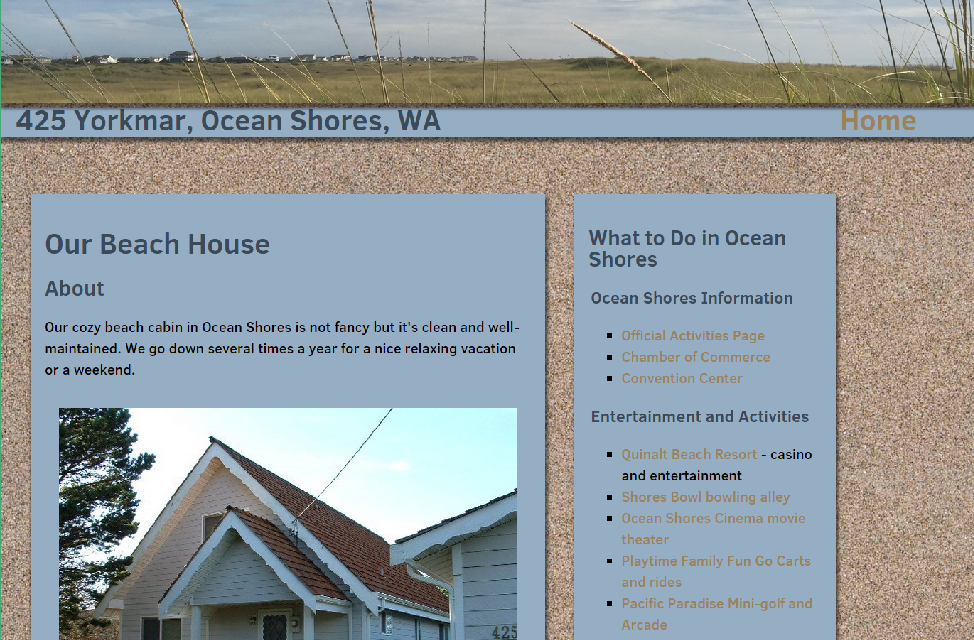
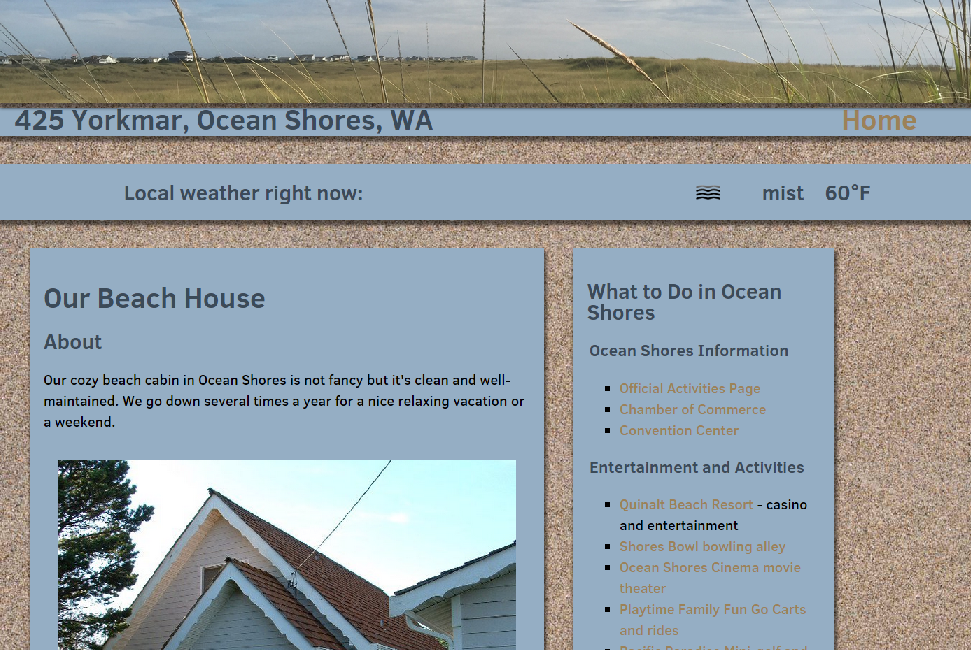
added more books. Added weather to Ocean Shores page

diff --git a/app/hobbies.html b/app/hobbies.html
@@ -103,6 +103,16 @@
               <img class="img-6" title="Little purple grapes getting ripe" src="../assets/images/garden/grapes_1.jpg"/>
             </figure>
           </section>
+          <h2>My library</h2>
+          <h3>It used to be just one room but it's spilled over until there are books in every room in the house.</h3>
+          <section class="img-cluster-3">
+            <figure class="img-cluster-3">
+              <img class="img-1" title="Hens and chicks with stones from Ocean Shores" src="../assets/images/garden/sedum_1.jpg"/>
+              <img class="img-2" title="The tomatoes kind of loved the hot weather" src="../assets/images/garden/tomatoes_1.jpg"/>
+              <img class="img-3" title="Iron sculpture by a local artist" src="../assets/images/garden/sculpture_1.jpg"/>
+              <img class="img-4" title="Japanese anemone (fall blooming)" src="../assets/images/garden/anemone_1.jpg"/>
+            </figure>
+          </section>
         </section>
         <section id="column3">
           <ul class="left-nav">
@@ -146,7 +156,10 @@
               <h2>Books I'm Reading Now</h2>
               <ul>
                 <li>
-                <a href='http://www.amazon.com/Night-Circus-Erin-Morgenstern/dp/0307744434/ref=sr_1_1?ie=UTF8&qid=1444021214&sr=8-1&keywords=Night+Circus'>Night Circus</a> by Erin Morganstern, for my book club.
+                <a href='http://www.amazon.com/Stone-Mattress-Tales-Margaret-Atwood/dp/0804173508/ref=sr_1_1?ie=UTF8&qid=1445284485&sr=8-1&keywords=Stone+Mattress'>Stone Mattress</a> by Margaret Atwood
+                </li>
+                <li>
+                <a href='http://www.amazon.com/Must-Say-Humble-Comedy-Legend/dp/0062309544/ref=sr_1_1?ie=UTF8&qid=1445284402&sr=8-1&keywords=Martin+Short'>I Must Say: My Life As a Humble Comedy Legend</a> memoir by Martin Short
                 </li>
                 <li>
                 <a href='http://www.amazon.com/Naked-Lunch-William-S-Burroughs/dp/0802132952/ref=sr_1_2?ie=UTF8&qid=1444021244&sr=8-2&keywords=Naked+Lunch'>Naked Lunch</a> by William S. Burroughs, in honor of banned books week.

diff --git a/app/index.html b/app/index.html
@@ -23,20 +23,20 @@
       <nav class="navbar navbar-default nav-bar navbar-fixed-top" role="navigation">
         <div class='col-md-12'>
           <div class="navbar-header">
-            <h1>Peggy Wiltz</h1>
+            <h2>Peggy Wiltz</h2>
           </div>
           <ul class="nav navbar-nav navbar-right">
             <li class="navbar-header nav-button">
-              <a href="#home"><h1>Home</h1></a>
+              <a href="#home"><h2>Home</h2></a>
             </li>
             <li class="navbar-header nav-button">
-              <a href="#about"><h1>About Me</h1></a>
+              <a href="#about"><h2>About Me</h2></a>
             </li>
             <li class="navbar-header nav-button">
-              <a href="#portfolio"><h1>Portfolio</h1></a>
+              <a href="#portfolio"><h2>Portfolio</h2></a>
             </li>
             <li class="navbar-header nav-button">
-              <a href="#contact"><h1>Contact</h1></a>
+              <a href="#contact"><h2>Contact</h2></a>
             </li>
           </ul>
         </div>
@@ -89,7 +89,8 @@
     <div class="col-md-12">
       <div class="col-md-8 port-text">
         <div class="port-text-child">Page to advertise and describe our Ocean Shores cabin. Another very simple page with
-          a homemade grid, it uses the Google Maps API to show the location of the house.</div>
+          a homemade grid, it uses the Google Maps API to show the location of the house, and <a href="openweathermap.org/api">OpenWeatherMap api</a>
+          to show the local weather.</div>
       </div>
       <div class="col-md-4">
         <a href="/oceanshores.html"><h1>Ocean Shores</h1></a>

diff --git a/app/js/oceanshores.js b/app/js/oceanshores.js
@@ -1,0 +1,56 @@
+var osLat = "46.957537";
+var osLng = "-124.166023";
+
+function initMap() {
+  var myLatLng = new google.maps.LatLng(osLat, osLng);
+
+  var map = new google.maps.Map(document.getElementById('map'), {
+    zoom: 8,
+    center: myLatLng,
+    mapTypeId: google.maps.MapTypeId.ROADMAP
+  });
+
+  var marker = new google.maps.Marker({
+    position: myLatLng,
+    map: map,
+    title: '425 Yorkmar, Ocean Shores'
+  });
+}
+
+document.addEventListener('load', initMap());
+
+$(document).ready(function() {
+  var tempInK;
+
+  getWeather(osLat, osLng);
+
+  function getWeather(lat, lng) {
+
+    var weatherApiUrl = 'http://api.openweathermap.org/data/2.5/weather?lat=' + osLat + '&lon=' + osLng + "&APPID=" + "1503313f52a0a3425b0ab91c246e2728";
+
+    console.log(weatherApiUrl);
+
+    $.get(weatherApiUrl, function(result) {
+      console.log(result);
+      var icon = result.weather[0].icon;
+      console.log(icon);
+
+      $("#weather-icon").attr("src", "http://openweathermap.org/img/w/" + icon + ".png");
+      tempInK = result.main.temp;
+      var tempF = convertKToF(tempInK);
+      setTemp(tempF);
+      $(".description").html(result.weather[0].description);
+
+    }, "jsonp");
+  };
+
+  function convertKToF(tempInKelvin) {
+    console.log(tempInKelvin);
+    var temp = (tempInKelvin * 9) / 5 - 459.67;
+    return Math.floor(temp);
+  };
+
+  function setTemp(newTemp) {
+    $("#temp").html(newTemp + "&#176;");
+  }
+});

diff --git a/app/oceanshores.html b/app/oceanshores.html
@@ -24,7 +24,16 @@
         </section>
       </header>
       <main>
-        <section id="osCol1">
+        <section id="weather" class="chunk center">
+            <h2 class="os-right weather__element">Local weather right now: </h2>
+            <div class="weather">
+              <h2 class="weather__temp_element" id="degreeType">F</h2>
+              <h2 class="weather__temp_element" id="temp"></h2>
+              <h2 class="description weather__element"></h2>
+              <img class="weather__element" id="weather-icon"/>
+            </div>
+        </section>
+        <section id="osCol1" class="chunk">
           <h1>Our Beach House</h1>
           <h2>About</h2>
           <p>Our cozy beach cabin in Ocean Shores is not fancy but it's clean and
@@ -73,7 +82,7 @@
           <p>We hope your stay is enjoyable, and that you love our cute cabin as much
           as we do!</p>
         </section>
-        <section id="osCol2">
+        <section id="osCol2" class="chunk">
           <h2>What to Do in Ocean Shores</h2>
           <ul>
             <li>
@@ -182,7 +191,7 @@
       </main>
       <footer></footer>
       <script src="https://ajax.googleapis.com/ajax/libs/jquery/2.1.4/jquery.min.js"></script>
-      <script src="js/map.js"></script>
+      <script src="js/oceanshores.js"></script>
       <!-- <script async defer src="https://maps.googleapis.com/maps/api/js?signed_in=true&callback=initMap"></script> -->
     </body>
 </html>

diff --git a/app/sass/os/_layout.sass b/app/sass/os/_layout.sass
@@ -47,6 +47,9 @@ main
   ul
     padding-left: 1%
 
+.chunk
+  @extend %shadow
+
 .os-img
   width: 40%
   height: auto
@@ -64,3 +67,24 @@ main
 .header__title--home
   a
     margin-right: 2em
+
+.center
+  margin: 0 auto
+  display:flex
+  justify-content:center
+  align-items:center
+
+.weather
+  width: 50%
+  display: inline-block
+
+.weather__element
+  margin-left: 1em
+  margin-right: 1em
+  float:right
+
+#weather-icon
+  margin-top: .8em
+
+.weather__temp_element
+  float:right

diff --git a/app/sass/os/_colors.sass b/app/sass/os/_colors.sass
@@ -20,10 +20,7 @@ header
 .header__banner
   background: $header-image
 
-#osCol1
-  background-color: $main-background
-
-#osCol2
+.chunk
   background-color: $main-background
 
 h1, h2, h3, h4, h5, h6

diff --git a/app/css/index.css b/app/css/index.css
@@ -111,6 +111,12 @@ nav {
 .port-text-child {
   padding: 5% 0;
 }
+.port-text-child a {
+  color: #4A4D70;
+}
+.port-text-child a:hover {
+  color: #4A4D70;
+}
 .about {
   padding: 3em;
 }
